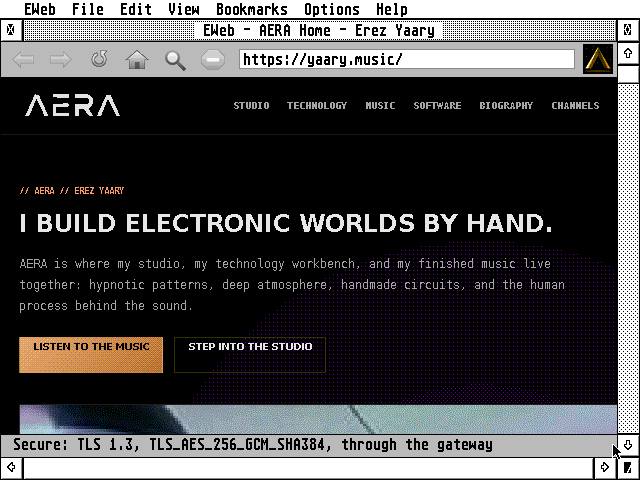
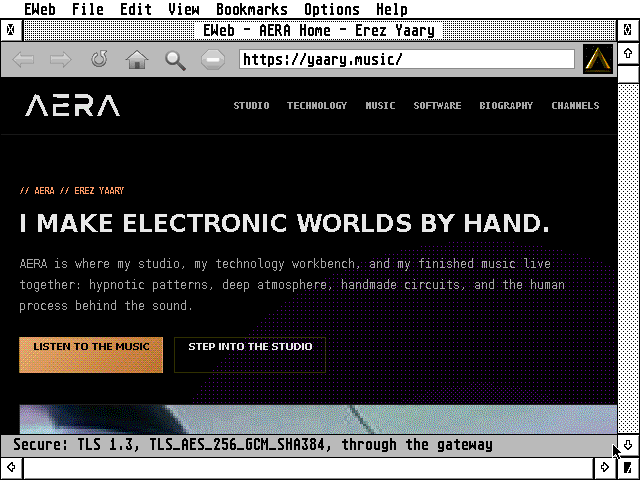
The README's picture again: yaary.music's line as Erez has it (make)
tools/screenshot.py writes the palette PNG of the screen's own colours
itself (every pixel as it was).

Claude-Session: https://claude.ai/code/session_017yvNQXjua4LVpepx8dokJe

Changed region(s): [[0.0625, 0.4375, 0.875, 0.5]]

diff --git a/tools/screenshot.py b/tools/screenshot.py
@@ -22,6 +22,24 @@ import time
 ROOT = os.path.dirname(os.path.dirname(os.path.abspath(__file__)))
 
 
+def palette_png(src, out):
+    """the capture as a palette PNG of its own colours, every pixel as
+    it was (a 256-colour screen has at most 256)"""
+    from PIL import Image
+    im = Image.open(src).convert("RGB")
+    px = list(im.get_flattened_data())
+    cols = sorted(set(px))
+    if len(cols) > 256:
+        shutil.copy(src, out)
+        return
+    idx = {c: i for i, c in enumerate(cols)}
+    p = Image.new("P", im.size)
+    pal = [v for c in cols for v in c]
+    p.putpalette(pal + [0] * (768 - len(pal)))
+    p.putdata([idx[c] for c in px])
+    p.save(out, optimize=True)
+
+
 def main():
     a = sys.argv[1:]
     if not a or a[0].startswith("-"):
@@ -71,7 +89,7 @@ def main():
         time.sleep(4)
         shot = r.shot(0)
         time.sleep(2)
-        shutil.copy(shot, out)
+        palette_png(shot, out)
         print("screenshot: %s" % out)
     finally:
         r.end()
